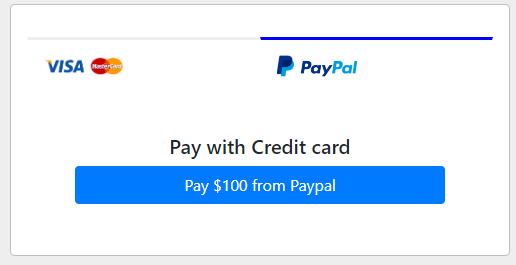
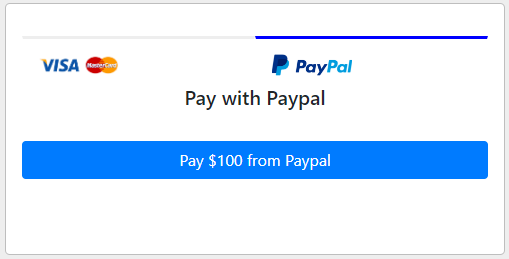
uploadin

diff --git a/resources/views/home.blade.php b/resources/views/home.blade.php
@@ -35,9 +35,14 @@
 <div class="form mt-3">
  <div class="inputbox">
   </div> 
-  <div class="inputbox">  <i class="fa fa-eye"></i> </div> <div class="d-flex flex-row"> <div class="inputbox">  </div> <div class="inputbox">  </div> </div> <div class="px-5 pay"> <a href="{{ route('stripe.index') }}" class="btn btn-success btn-block">Add card</a> </div> </div> </div> </div> <div class="tab-pane fade" id="paypal" role="tabpanel" aria-labelledby="paypal-tab"> <div class="px-5 mt-5"> <div class="inputbox"><div class="text-center"> 
-	<h5>Pay with Credit card</h5> 
+  <div class="inputbox">  <i class="fa fa-eye"></i> </div> <div class="d-flex flex-row"> <div class="inputbox">  </div> <div class="inputbox">  </div> </div> <div class="px-5 pay"> <a href="{{ route('stripe.index') }}" class="btn btn-success btn-block">Add card</a> </div> </div> </div> </div> <div class="tab-pane fade" id="paypal" role="tabpanel" aria-labelledby="paypal-tab"> <div class="px-auto mt"> <div class="inputbox">
 
+
+		<div class="text-center"> 
+	<h5>Pay with Paypal</h5> 
+<br>
+</div> 
+<div>      </div>
 <a href="{{ route('payment') }}" class="btn btn-primary btn-block">Pay $100 from Paypal</a>
 </div>
 <style type="text/css">
